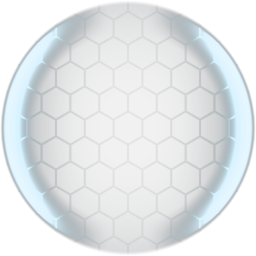
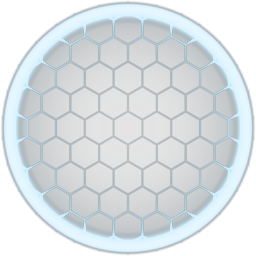
ガードの盾を、半透明の「（ ）」の形から丸い光の盾に戻す
Claude-Session: https://claude.ai/code/session_01CfxgLnXPHeNDRwu5cwNogt

Changed region(s): [[0.1875, 0.0, 0.8125, 1.0], [0.8438, 0.25, 0.9375, 0.75], [0.0625, 0.25, 0.1562, 0.75]]

diff --git a/Tools/MakeShieldTexture.py b/Tools/MakeShieldTexture.py
@@ -1,6 +1,6 @@
 # ガードのエフェクトで使う「盾」と「盾の破片」の画像を作るスクリプト
 # 使い方：python Tools/MakeShieldTexture.py
-#   → Asset/Data/Effect/Tex/ShieldHex.png（半透明の「（ ）」の形の盾）、ShieldShard.png（砕けた盾のかけら）
+#   → Asset/Data/Effect/Tex/ShieldHex.png（丸い光の盾）、ShieldShard.png（砕けた盾のかけら）
 # 加算合成で描くので、黒・透明のところは見えない。色はエフェクト側でかけ算する（白っぽい水色で作る）
 
 import math
@@ -65,20 +65,16 @@ def write_png(path, width, height, pixel):
 
 
 def shield(x, y):
-	"""半透明の「（ ）」の形の盾：左右のふちが強く光り、真ん中は薄く透ける（丸く曲がった盾を正面から見た感じ）"""
+	"""丸い盾：ふちが強く光り、中は六角形の模様がうっすら光る"""
 	r = math.hypot(x, y)
 	if r > 1.0:
 		return 0, 0, 0, 0
-	side = abs(x)
-	# 左右のふちの光る弧（上下に行くほど細く・暗くして「（ ）」の形にする）
-	arc = smooth_step(0.72, 0.95, r) * smooth_step(1.0, 0.95, r) * smooth_step(0.15, 0.85, side / max(r, 1e-6))
-	# 曲面の照り返し（外側ほど明るい。左右を強く）
-	fresnel = 0.55 * (side ** 4) + 0.12 * r ** 3
-	grid = hex_edge(x, y, 0.13) * (0.06 + 0.3 * side ** 2)	# 六角形の模様は外側ほど見える
-	base = 0.06												# 真ん中もうっすら見える
-	v = min(arc + fresnel + grid + base, 1.0) * smooth_step(1.0, 0.96, r)
+	rim = smooth_step(0.80, 0.93, r) * smooth_step(1.0, 0.94, r)	# ふちの光る輪
+	inner_glow = 0.12 + 0.35 * r ** 3									# 外側ほど明るい
+	grid = hex_edge(x, y, 0.13) * (0.25 + 0.6 * r ** 2)				# 六角形の模様
+	v = min(rim + inner_glow + grid, 1.0) * smooth_step(1.0, 0.96, r)
 	c = BASE_COLOR
-	white = arc * 0.6
+	white = rim * 0.6
 	return (c[0] + (1 - c[0]) * white) * v, (c[1] + (1 - c[1]) * white) * v, (c[2] + (1 - c[2]) * white) * v, v
 
 

diff --git a/Tools/MakeEffekseerProjects.py b/Tools/MakeEffekseerProjects.py
@@ -182,10 +182,10 @@ SOFT = "Tex/Particle_Soft.png"	# ふちがぼやけた丸
 SPARK = "Tex/Particle02.png"		# 光の粒
 LINE = "Tex/Line01.png"			# 細長い光
 IMPACT = "Tex/impact2.png"		# 衝撃の輪
-SHIELD = "Tex/ShieldHex.png"		# 半透明の「（ ）」の形の盾（Tools/MakeShieldTexture.py）
+SHIELD = "Tex/ShieldHex.png"		# 丸い光の盾（Tools/MakeShieldTexture.py）
 SHARD = "Tex/ShieldShard.png"		# 盾のかけら（Tools/MakeShieldTexture.py）
 FIXED = 2						# 板の向き：固定（ノードの向きのまま。盾をプレイヤーの前に立てる）
-SHIELD_W, SHIELD_H = 1.4, 1.9	# 盾の幅・高さ（体を覆う縦長の楕円）
+SHIELD_W, SHIELD_H = 1.6, 1.6	# 盾の幅・高さ（丸い盾）
 
 # ===== モード切り替え（E キー）：足元から光の輪が広がり、光の粒と柱が立ちのぼる =====
 # 色は白っぽく作り、ゲーム側でモードの色（青・オレンジ）をかけ算する
@@ -287,7 +287,7 @@ def ability_start():
 	], end_frame=70)
 
 
-# ===== ガード成功：体の前に半透明の「（ ）」の盾が出て、攻撃を受け止める =====
+# ===== ガード成功：体の前に丸い光の盾が出て、攻撃を受け止める =====
 # ゲーム側で、プレイヤーの前に、プレイヤーの向きに合わせて出す（盾は XY 平面に立つ）
 
 def guard():
